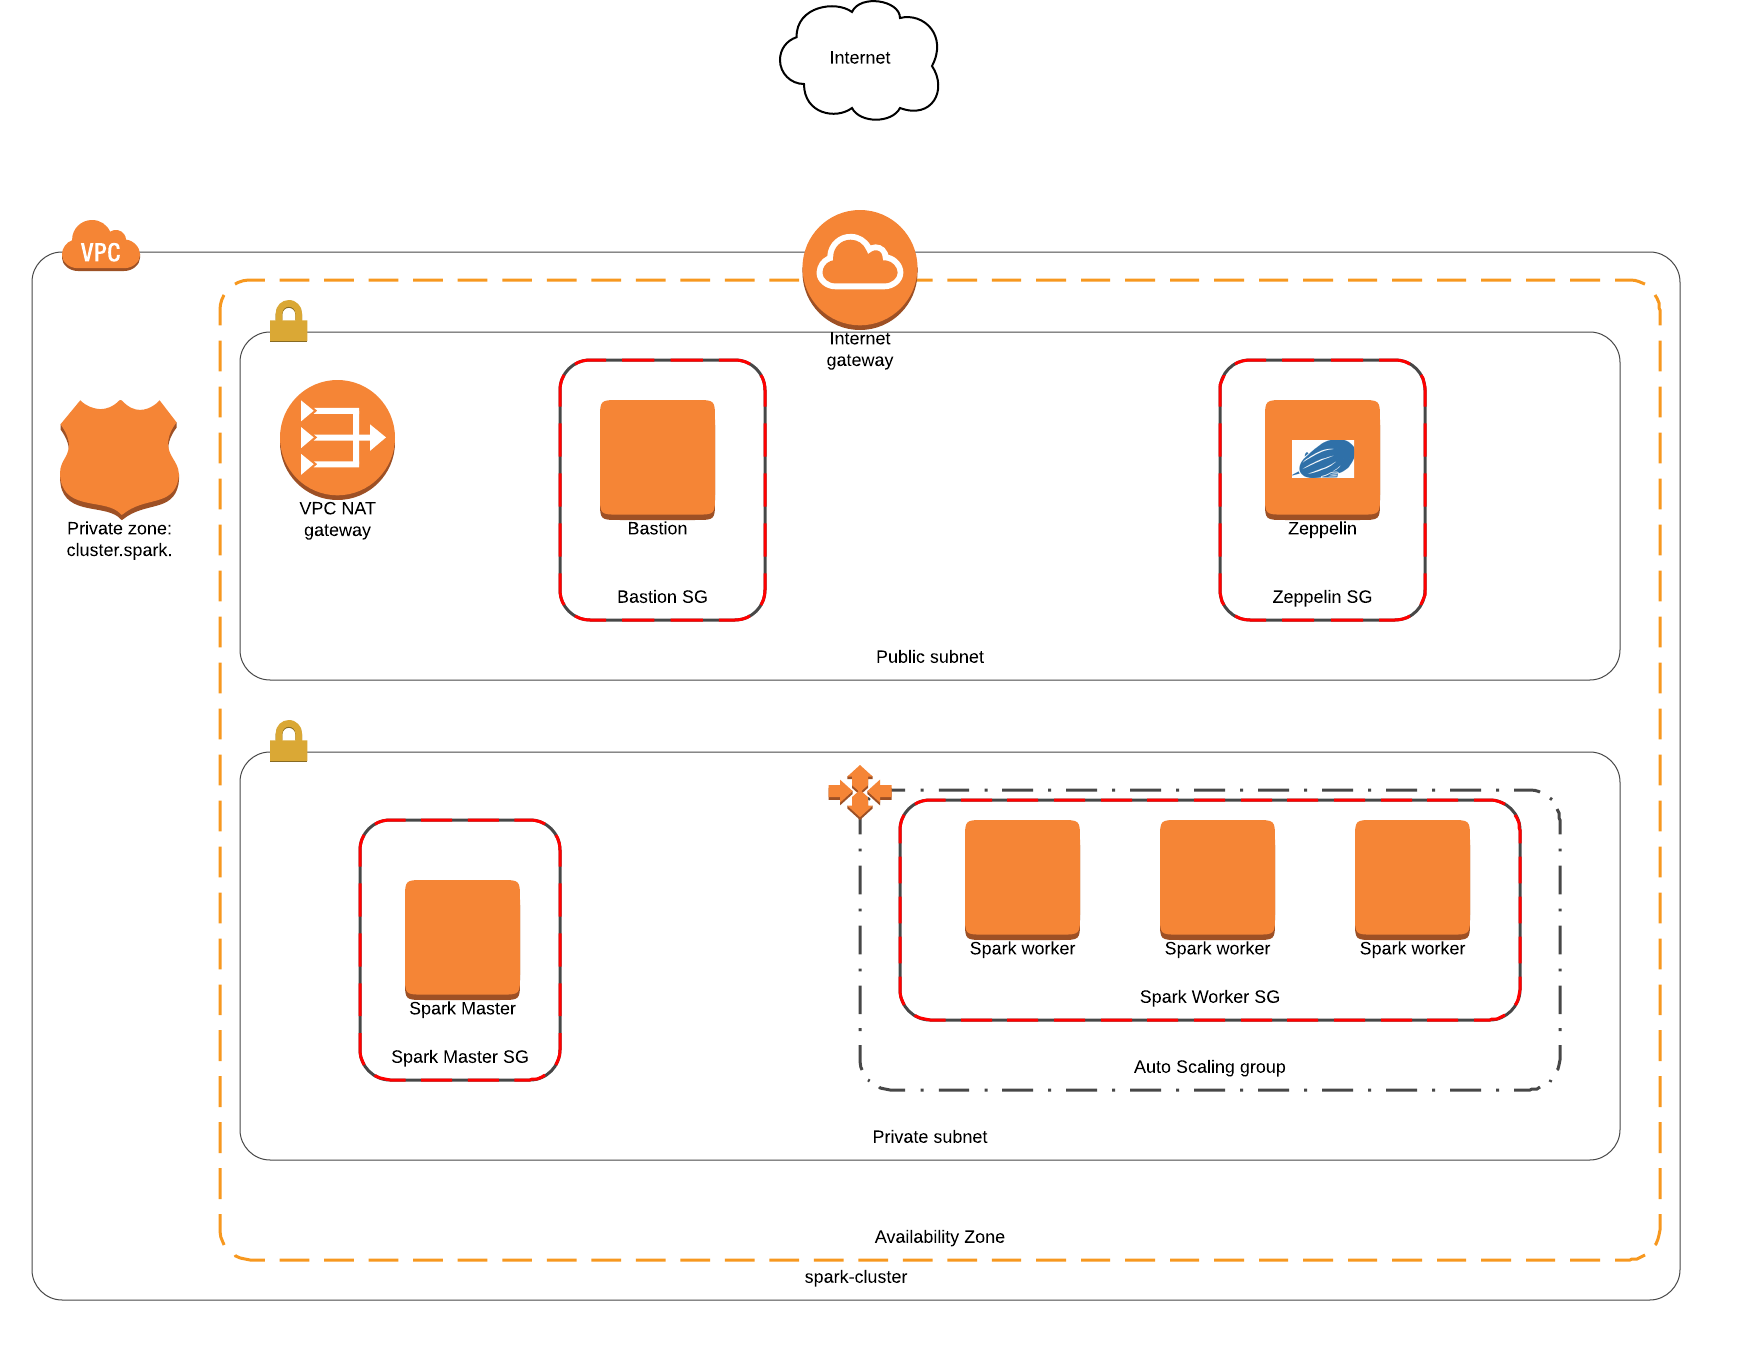
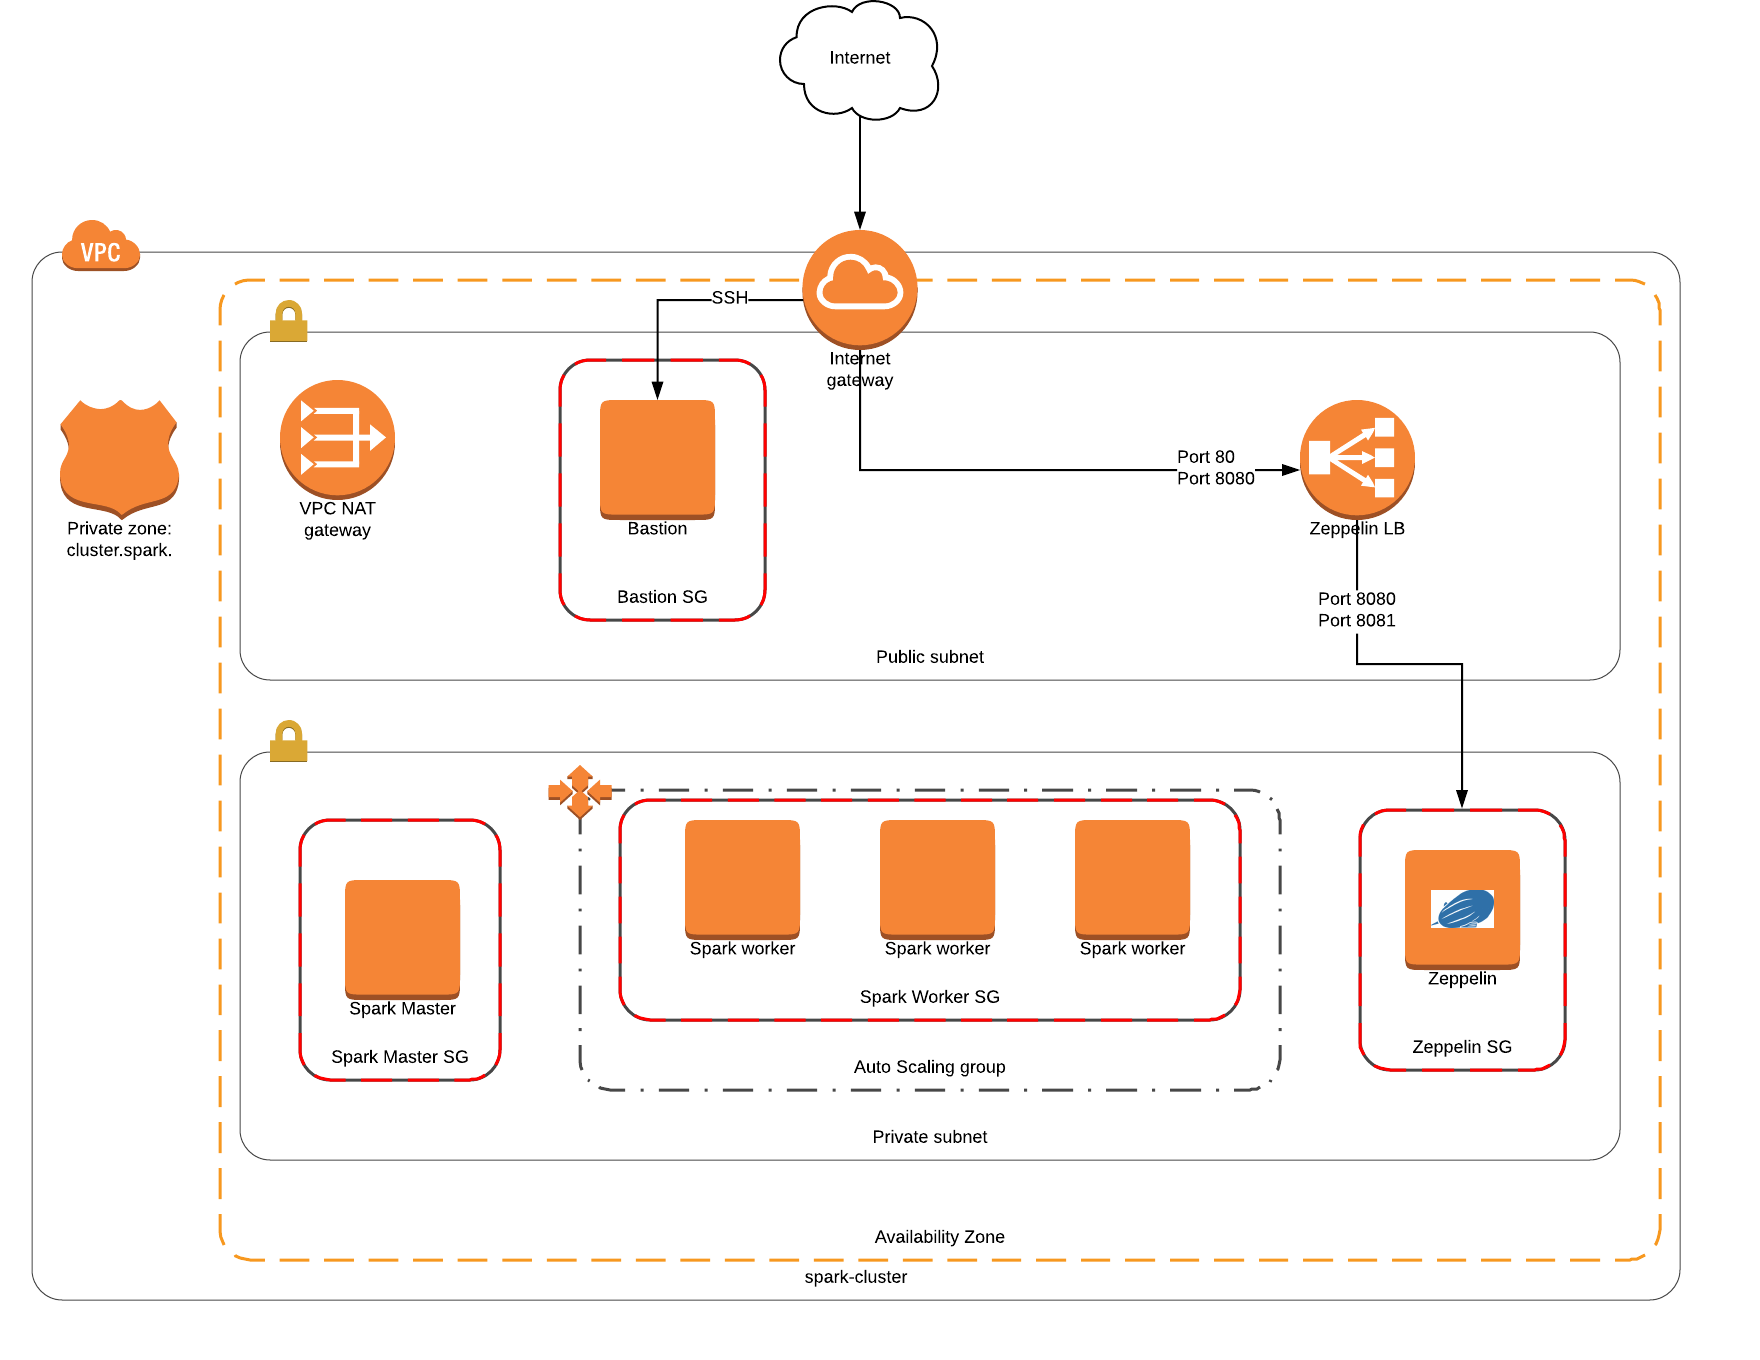
Update doc to add the ELB

diff --git a/README.md b/README.md
@@ -6,8 +6,8 @@ There is also a bastion host with is used to ssh into the VMs.
 All spark related instances are base on CoreOS stable images running containers on with the docker Host mode.
 
 ## Architecture
-The spark cluster is on a private subnet. There is different security groups between the master and the workers.
-Bastion and the zeppelin instance are running in the public subnet.
+The spark cluster and the zeppelin server are on a private subnet. There is different security groups between the master and the workers.
+Bastion is running in the public subnet. An Classical load balancer is running in a public subnet to balance the zeppelin traffic.
 
 Make sure you change the default value for the variable `public_admin_ip_range` and set it up to you ip address
 
@@ -17,7 +17,7 @@ The spark workers are created by an auto scaling group. Adjust the trigger to yo
 
 There is a private host zone created to add dns support for the spark master and the zeppelin server. This is a private zone, it will not be reachable from internet.
 
-Since the Spark cluster is in a private subnet, the Spark ui is not directly reachable. Adding a openvpn server to this repo would be too heavy, so I used a very cool proxy based on [this repository](https://github.com/aseigneurin/spark-ui-proxy). This proxy is running on the zeppelin instance.
+Since the Spark cluster is in a private subnet, the Spark ui is not directly reachable. Adding a openvpn server to this repo would be too heavy, so I used a very cool proxy based on [this repository](https://github.com/aseigneurin/spark-ui-proxy). This proxy is running on the zeppelin instance. And serverd via the Load balances
 
 ## To know before running
 This is for development purpose, there is no high availability for the spark master. If feel free to submit a pool request with the [support of zookeeper for the master HA.](https://spark.apache.org/docs/latest/spark-standalone.html#high-availability)
@@ -26,6 +26,5 @@ Before using this repository make sure you update the instance profile of the sp
 
 ## Things to add
 This is the list of the missing feature that would be great to have
-- Use an ELB with HTTPS in front of Zeppelin
 - Support of users in zeppelin with passwords
 - customisable spark-configuration
